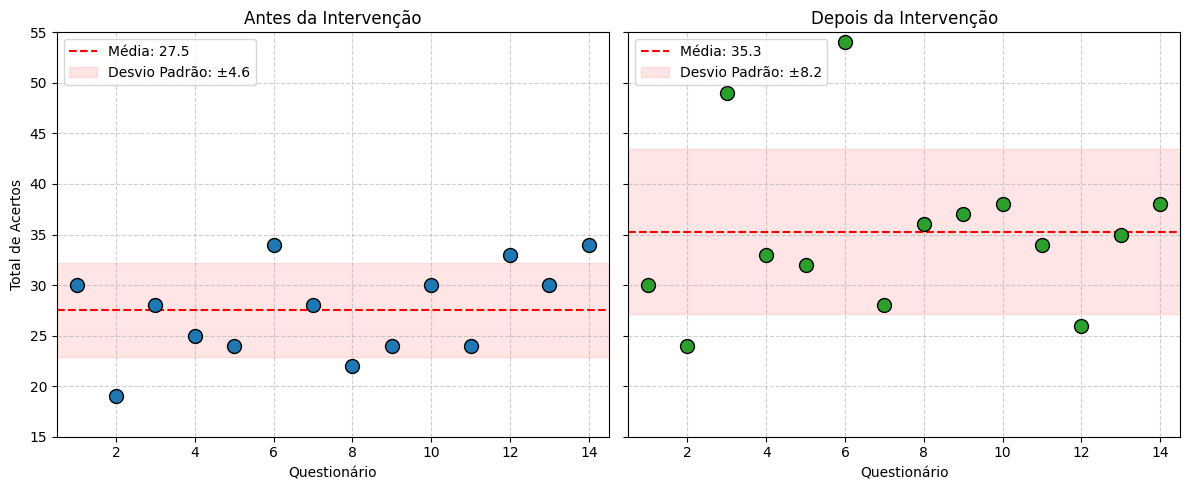
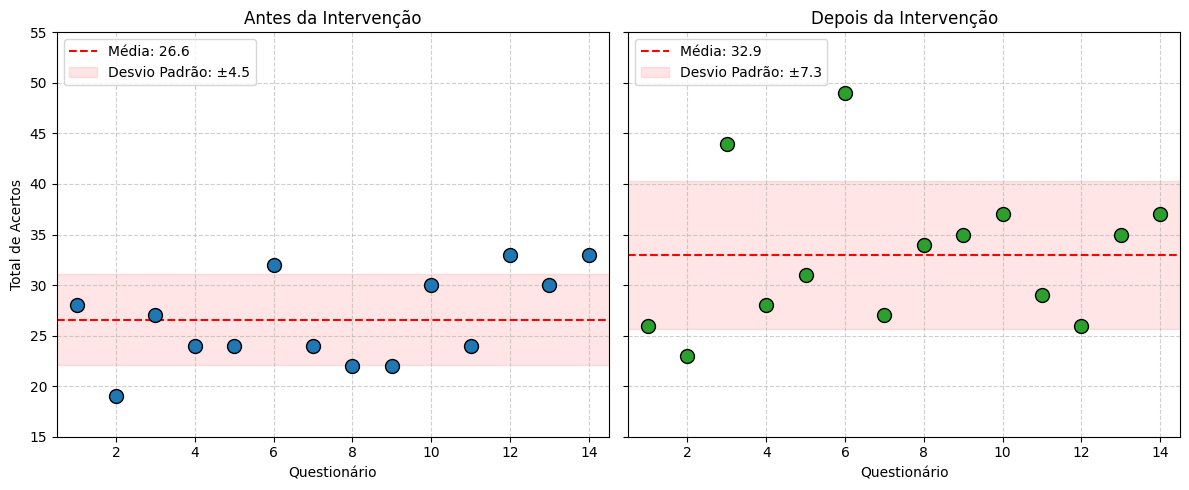
Correção da legenda questão 8

diff --git a/pe_diabetico.py b/pe_diabetico.py
@@ -149,9 +149,9 @@ ax1.scatter(alunos, antes, color='#1f77b4', s=100, edgecolor='black', zorder=3)
 ax1.axhline(mean_a, color='red', linestyle='--', label=f'Média: {mean_a:.1f}')
 ax1.fill_between([0, 15], mean_a - std_a, mean_a + std_a, color='red', alpha=0.1, label=f'Desvio Padrão: ±{std_a:.1f}')
 
-ax1.set_title('Questão 8 - Antes')
-ax1.set_xlabel('Aluno (Acertos)')
-ax1.set_ylabel('Valor')
+ax1.set_title('Antes da intervenção')
+ax1.set_xlabel('Questionário')
+ax1.set_ylabel('Total de acertos')
 ax1.set_xlim(0.5, 14.5)
 
 # Normalização do eixo Y para abranger os limites de ambos os arrays
@@ -172,8 +172,8 @@ ax2.scatter(alunos, depois, color='#2ca02c', s=100, edgecolor='black', zorder=3)
 ax2.axhline(mean_d, color='red', linestyle='--', label=f'Média: {mean_d:.1f}')
 ax2.fill_between([0, 15], mean_d - std_d, mean_d + std_d, color='red', alpha=0.1, label=f'Desvio Padrão: ±{std_d:.1f}')
 
-ax2.set_title('Questão 8 - Depois')
-ax2.set_xlabel('Aluno (Acertos)')
+ax2.set_title('Depois da Intervenção')
+ax2.set_xlabel('Questionário')
 ax2.set_xlim(0.5, 14.5)
 
 ax2.grid(True, linestyle='--', alpha=0.6, zorder=0)